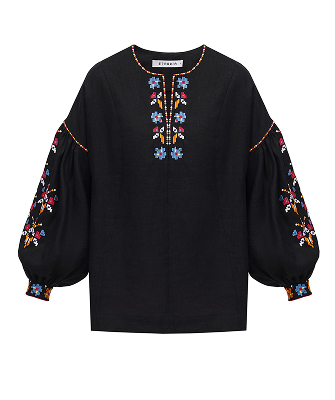
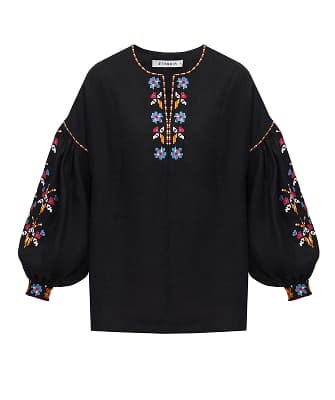
Update styles _collection.scss

diff --git a/css/main.min.css b/css/main.min.css
@@ -1,1 +1,1 @@
-@font-face{font-family:"Manrope";src:url("../../Manrope-SemiBold.woff2") format("woff2");font-weight:600;font-style:normal;font-display:swap}@font-face{font-family:"Manrope";src:url("../../Manrope-Medium.woff2") format("woff2");font-weight:500;font-style:normal;font-display:swap}@font-face{font-family:"Manrope";src:url("../../Manrope-Regular.woff2") format("woff2");font-weight:normal;font-style:normal;font-display:swap}@font-face{font-family:"DM Sans";src:url("../../fonts/DMSans-Regular.woff2") format("woff2");font-weight:normal;font-style:normal;font-display:swap}*,*::before,*::after{margin:0;padding:0;border:0;-webkit-box-sizing:border-box;box-sizing:border-box}a,*::before,*::after{display:inline-block}html,body{min-width:320px;height:100%}body{font-family:"Manrope",sans-serif;font-size:16px;line-height:1.15;color:#fff;background-color:#1c2225}html{scroll-behavior:smooth}a{color:inherit;text-decoration:none}ul,ol,li{list-style:none}button{cursor:pointer;background-color:inherit}img{vertical-align:top}h1,h2,h3,h4,h5,h6{font-weight:inherit;font-size:inherit}button,input{font-weight:inherit;font-size:inherit;color:inherit;font-family:inherit}[class*=__container]{max-width:375px;margin:0 auto;padding:0 20px}@media(min-width: 768px){[class*=__container]{max-width:768px;padding:0 32px}}@media(min-width: 1280px){[class*=__container]{max-width:1280px;padding:0 50px}}@media(min-width: 1440px){[class*=__container]{max-width:1440px;padding:0 100px}}.section-title{font-weight:500;font-size:32px;line-height:1.375;letter-spacing:-0.03em;color:#fcf9f9}@media(min-width: 768px){.section-title{font-size:44px;line-height:1.45}}.header{padding-top:20px}.header__container{display:-webkit-box;display:-ms-flexbox;display:flex;-webkit-box-align:center;-ms-flex-align:center;align-items:center}.nav__list{display:none}@media(min-width: 1280px){.nav__list{display:-webkit-box;display:-ms-flexbox;display:flex;gap:25px;margin-left:60px}}.nav__link{position:relative;font-weight:400;font-size:14px;line-height:1.29;text-transform:uppercase;color:#fcf9f9;-webkit-transition:color .25s linear;transition:color .25s linear}.nav__link:hover,.nav__link:focus{color:#ecd979}.nav__link::after{content:"";position:absolute;left:0;bottom:-10px;display:block;height:2px;width:100%;background-color:#ecd979;border-radius:5px 5px 0px 0px;-webkit-transform:scaleX(0);transform:scaleX(0);-webkit-transition:-webkit-transform 350ms linear;transition:-webkit-transform 350ms linear;transition:transform 350ms linear;transition:transform 350ms linear, -webkit-transform 350ms linear}.nav__link:hover::after,.nav__link:focus::after{-webkit-transform:scaleX(1);transform:scaleX(1);-webkit-transition:-webkit-transform 350ms linear;transition:-webkit-transform 350ms linear;transition:transform 350ms linear;transition:transform 350ms linear, -webkit-transform 350ms linear}.header__address-link{display:none;font-size:14px;font-style:normal;line-height:1.16667;text-transform:uppercase;color:#fcf9f9;border:1px solid rgba(252,249,249,.1);border-radius:15px;padding:14px 28px;width:193px;height:48px;-webkit-transition:all .25s linear;transition:all .25s linear}.header__address-link:hover,.header__address-link:focus{border:1px solid #ecd979;color:#ecd979}@media(min-width: 1280px){.header__address-link{display:block;margin-left:180px}}@media(min-width: 1440px){.header__address-link{margin-left:235px}}.header__social-menu{display:-webkit-box;display:-ms-flexbox;display:flex;gap:12px;margin-left:auto}@media(min-width: 1280px){.header__social-menu{margin-right:0}}.header__social-ist{display:-webkit-box;display:-ms-flexbox;display:flex;-webkit-box-align:center;-ms-flex-align:center;align-items:center;gap:12px}@media(min-width: 1280px){.burger__menu-open{display:none}}.header__social-item{display:-webkit-box;display:-ms-flexbox;display:flex;-webkit-box-align:center;-ms-flex-align:center;align-items:center;-webkit-box-pack:center;-ms-flex-pack:center;justify-content:center;width:44px;height:44px;border:1px solid rgba(252,249,249,.1);border-radius:15px;background:rgba(252,249,249,.1);cursor:pointer;-webkit-transition:border-color .25s linear;transition:border-color .25s linear}.header__social-item:hover{border-color:#ecd979}.mobile-menu{position:fixed;top:0;right:0;z-index:3;padding:20px 20px;width:274px;min-height:812px;background-color:#ecd979;-webkit-transform:translateX(100%);transform:translateX(100%);-webkit-transition:-webkit-transform 400ms linear;transition:-webkit-transform 400ms linear;transition:transform 400ms linear;transition:transform 400ms linear, -webkit-transform 400ms linear;background-image:url("../../images/header/mobile-decor.svg");background-repeat:no-repeat;background-position:bottom;background-size:auto auto}@media(min-width: 768px){.mobile-menu{width:380px;height:1024px;background-image:url("../../images/header/tablet-decor.svg")}}@media(min-width: 1280px){.mobile-menu{display:none}}.mobile-menu.is-open{-webkit-transform:translateX(0);transform:translateX(0)}.mobile-menu__container{display:-webkit-box;display:-ms-flexbox;display:flex;-webkit-box-orient:vertical;-webkit-box-direction:normal;-ms-flex-direction:column;flex-direction:column;-webkit-box-pack:center;-ms-flex-pack:center;justify-content:center;padding:0}.mobile-menu__close{position:absolute;top:22px;right:16px;display:-webkit-box;display:-ms-flexbox;display:flex;-webkit-box-align:center;-ms-flex-align:center;align-items:center;-webkit-box-pack:center;-ms-flex-pack:center;justify-content:center;width:36px;height:36px;padding:0;background-color:rgba(0,0,0,0);outline:none;border:none;cursor:pointer}.mobile-menu .icon-burger-close{color:#1c2225}.mobile-menu .header__address-mobile{display:-webkit-box;display:-ms-flexbox;display:flex;-webkit-box-align:center;-ms-flex-align:center;align-items:center;-webkit-box-pack:center;-ms-flex-pack:center;justify-content:center;border:1px solid rgba(28,34,37,.1);border-radius:15px;width:158px;height:38px;font-style:normal;font-size:12px;line-height:1.17;text-transform:uppercase;color:#1c2225;margin-bottom:186px}@media(min-width: 768px){.mobile-menu .header__address-mobile{line-height:1.43;font-size:14px;width:193px}}.mobile-menu .mobile__list{display:-webkit-box;display:-ms-flexbox;display:flex;-webkit-box-align:end;-ms-flex-align:end;align-items:flex-end;-webkit-box-orient:vertical;-webkit-box-direction:normal;-ms-flex-direction:column;flex-direction:column;gap:20px}@media(min-width: 768px){.mobile-menu .mobile__list{gap:25px}}.mobile-menu .mobile__link{font-size:14px;line-height:1.29;text-transform:uppercase;color:#1c2225}.hero{padding-top:84px;padding-bottom:80px}@media(min-width: 768px){.hero__content{display:-webkit-box;display:-ms-flexbox;display:flex;-ms-flex-wrap:wrap;flex-wrap:wrap}}@media(min-width: 768px){.hero__title-box{max-width:549px}}@media(min-width: 1280px){.hero__title-box{padding-top:94px;margin-left:40px;max-width:505px}}@media(min-width: 1440px){.hero__title-box{padding-top:66px;max-width:600px}}.hero__title{font-weight:400;font-size:44px;line-height:1.09;letter-spacing:-0.03em;color:#fcf9f9;margin-bottom:20px}@media(min-width: 768px){.hero__title{font-size:54px;line-height:1.19;letter-spacing:-0.03em;margin-bottom:40px}}@media(min-width: 1440px){.hero__title{font-size:64px;line-height:1.16}}.hero__title span{color:#ecd979}.hero__link{display:-webkit-box;display:-ms-flexbox;display:flex;-webkit-box-align:baseline;-ms-flex-align:baseline;align-items:baseline;-webkit-box-pack:center;-ms-flex-pack:center;justify-content:center;border:1px solid rgba(252,249,249,.1);border-radius:15px;padding:14px 32px;width:154px;height:49px;font-weight:600;font-size:14px;letter-spacing:-0.04em;text-transform:uppercase;color:#fcf9f9;cursor:pointer;margin-left:70px;margin-bottom:40px;-webkit-transition:border-color .25s linear;transition:border-color .25s linear}.hero__link:hover,.hero__link:focus{border-color:#ecd979}@media(min-width: 768px){.hero__link{font-size:16px;padding:14px 39px;width:168px;height:50px;margin-left:141px;margin-bottom:46px}}@media(min-width: 1280px){.hero__link{margin-bottom:0;margin-left:181px}}@media(min-width: 1440px){.hero__link{margin-left:141px}}.hero__arrow{margin-left:10px}.hero__star-box{display:none}@media(min-width: 768px){.hero__star-box{display:-webkit-box;display:-ms-flexbox;display:flex;-webkit-box-orient:vertical;-webkit-box-direction:normal;-ms-flex-direction:column;flex-direction:column;gap:16px;max-width:116px;max-height:121px}}@media(min-width: 1280px){.hero__star-box{margin-top:14px;margin-left:124px}}@media(min-width: 1440px){.hero__star-box{margin-top:66px;margin-left:86px}}.hero__star-img{width:52px;margin:0 auto;-webkit-animation:rotate 10s infinite;animation:rotate 10s infinite;-webkit-transform-origin:center;transform-origin:center}@-webkit-keyframes rotate{0%{-webkit-transform:rotate(0deg);transform:rotate(0deg)}50%{-webkit-transform:rotate(-180deg);transform:rotate(-180deg)}100%{-webkit-transform:rotate(0deg);transform:rotate(0deg)}}@keyframes rotate{0%{-webkit-transform:rotate(0deg);transform:rotate(0deg)}50%{-webkit-transform:rotate(-180deg);transform:rotate(-180deg)}100%{-webkit-transform:rotate(0deg);transform:rotate(0deg)}}.hero__star-text{font-size:16px;letter-spacing:-0.04em;text-align:center;color:rgba(252,249,249,.4)}.hero-swiper{max-width:392px;margin:0;border-radius:4px;overflow:hidden}@media(min-width: 1280px){.hero-swiper{-webkit-box-ordinal-group:0;-ms-flex-order:-1;order:-1}}.hero__img{max-width:100%;border-radius:4px}.about{padding-bottom:80px;background-image:url("../../images/about/about-decor.svg");background-size:459px 408px;background-repeat:no-repeat;background-position:left 100px bottom 20px}@media(min-width: 768px){.about{padding-bottom:100px;background-size:545px 484px;background-position:left 400px bottom 20px}}@media(min-width: 1280px){.about{padding-bottom:150px;background-position:right -150px bottom 70px}}@media(min-width: 1440px){.about{padding-bottom:150px;background-position:right bottom 70px}}@media(min-width: 1280px){.about__content{display:-webkit-box;display:-ms-flexbox;display:flex;-webkit-box-align:center;-ms-flex-align:center;align-items:center;-webkit-box-pack:center;-ms-flex-pack:center;justify-content:center;gap:50px}}.about-title{margin-bottom:40px}.about__text{font-size:14px;color:rgba(252,249,249,.4);margin-bottom:50px}@media(min-width: 768px){.about__text{font-size:16px;margin-bottom:40px}}@media(min-width: 1280px){.about__text{margin-bottom:0}}.about__image-container{max-width:280px}@media(min-width: 375px){.about__image-container{max-width:335px}}@media(min-width: 768px){.about__image-container{max-width:704px}}@media(min-width: 1280px){.about__image-container{max-width:594px}}@media(min-width: 1440px){.about__image-container{max-width:709px}}.about__img{border-radius:4px;max-width:100%}.collection{padding-bottom:80px}/*# sourceMappingURL=main.min.css.map */
+@font-face{font-family:"Manrope";src:url("../../Manrope-SemiBold.woff2") format("woff2");font-weight:600;font-style:normal;font-display:swap}@font-face{font-family:"Manrope";src:url("../../Manrope-Medium.woff2") format("woff2");font-weight:500;font-style:normal;font-display:swap}@font-face{font-family:"Manrope";src:url("../../Manrope-Regular.woff2") format("woff2");font-weight:normal;font-style:normal;font-display:swap}@font-face{font-family:"DM Sans";src:url("../../fonts/DMSans-Regular.woff2") format("woff2");font-weight:normal;font-style:normal;font-display:swap}*,*::before,*::after{margin:0;padding:0;border:0;-webkit-box-sizing:border-box;box-sizing:border-box}a,*::before,*::after{display:inline-block}html,body{min-width:320px;height:100%}body{font-family:"Manrope",sans-serif;font-size:16px;line-height:1.15;color:#fff;background-color:#1c2225}html{scroll-behavior:smooth}a{color:inherit;text-decoration:none}ul,ol,li{list-style:none}button{cursor:pointer;background-color:inherit}img{vertical-align:top}h1,h2,h3,h4,h5,h6{font-weight:inherit;font-size:inherit}button,input{font-weight:inherit;font-size:inherit;color:inherit;font-family:inherit}[class*=__container]{max-width:375px;margin:0 auto;padding:0 20px}@media(min-width: 768px){[class*=__container]{max-width:768px;padding:0 32px}}@media(min-width: 1280px){[class*=__container]{max-width:1280px;padding:0 50px}}@media(min-width: 1440px){[class*=__container]{max-width:1440px;padding:0 100px}}.section-title{font-weight:500;font-size:32px;line-height:1.375;letter-spacing:-0.03em;color:#fcf9f9}@media(min-width: 768px){.section-title{font-size:44px;line-height:1.45}}.header{padding-top:20px}.header__container{display:-webkit-box;display:-ms-flexbox;display:flex;-webkit-box-align:center;-ms-flex-align:center;align-items:center}.nav__list{display:none}@media(min-width: 1280px){.nav__list{display:-webkit-box;display:-ms-flexbox;display:flex;gap:25px;margin-left:60px}}.nav__link{position:relative;font-weight:400;font-size:14px;line-height:1.29;text-transform:uppercase;color:#fcf9f9;-webkit-transition:color .25s linear;transition:color .25s linear}.nav__link:hover,.nav__link:focus{color:#ecd979}.nav__link::after{content:"";position:absolute;left:0;bottom:-10px;display:block;height:2px;width:100%;background-color:#ecd979;border-radius:5px 5px 0px 0px;-webkit-transform:scaleX(0);transform:scaleX(0);-webkit-transition:-webkit-transform 350ms linear;transition:-webkit-transform 350ms linear;transition:transform 350ms linear;transition:transform 350ms linear, -webkit-transform 350ms linear}.nav__link:hover::after,.nav__link:focus::after{-webkit-transform:scaleX(1);transform:scaleX(1);-webkit-transition:-webkit-transform 350ms linear;transition:-webkit-transform 350ms linear;transition:transform 350ms linear;transition:transform 350ms linear, -webkit-transform 350ms linear}.header__address-link{display:none;font-size:14px;font-style:normal;line-height:1.16667;text-transform:uppercase;color:#fcf9f9;border:1px solid rgba(252,249,249,.1);border-radius:15px;padding:14px 28px;width:193px;height:48px;-webkit-transition:all .25s linear;transition:all .25s linear}.header__address-link:hover,.header__address-link:focus{border:1px solid #ecd979;color:#ecd979}@media(min-width: 1280px){.header__address-link{display:block;margin-left:180px}}@media(min-width: 1440px){.header__address-link{margin-left:235px}}.header__social-menu{display:-webkit-box;display:-ms-flexbox;display:flex;gap:12px;margin-left:auto}@media(min-width: 1280px){.header__social-menu{margin-right:0}}.header__social-ist{display:-webkit-box;display:-ms-flexbox;display:flex;-webkit-box-align:center;-ms-flex-align:center;align-items:center;gap:12px}@media(min-width: 1280px){.burger__menu-open{display:none}}.header__social-item{display:-webkit-box;display:-ms-flexbox;display:flex;-webkit-box-align:center;-ms-flex-align:center;align-items:center;-webkit-box-pack:center;-ms-flex-pack:center;justify-content:center;width:44px;height:44px;border:1px solid rgba(252,249,249,.1);border-radius:15px;background:rgba(252,249,249,.1);cursor:pointer;-webkit-transition:border-color .25s linear;transition:border-color .25s linear}.header__social-item:hover{border-color:#ecd979}.mobile-menu{position:fixed;top:0;right:0;z-index:3;padding:20px 20px;width:274px;min-height:812px;background-color:#ecd979;-webkit-transform:translateX(100%);transform:translateX(100%);-webkit-transition:-webkit-transform 400ms linear;transition:-webkit-transform 400ms linear;transition:transform 400ms linear;transition:transform 400ms linear, -webkit-transform 400ms linear;background-image:url("../../images/header/mobile-decor.svg");background-repeat:no-repeat;background-position:bottom;background-size:auto auto}@media(min-width: 768px){.mobile-menu{width:380px;height:1024px;background-image:url("../../images/header/tablet-decor.svg")}}@media(min-width: 1280px){.mobile-menu{display:none}}.mobile-menu.is-open{-webkit-transform:translateX(0);transform:translateX(0)}.mobile-menu__container{display:-webkit-box;display:-ms-flexbox;display:flex;-webkit-box-orient:vertical;-webkit-box-direction:normal;-ms-flex-direction:column;flex-direction:column;-webkit-box-pack:center;-ms-flex-pack:center;justify-content:center;padding:0}.mobile-menu__close{position:absolute;top:22px;right:16px;display:-webkit-box;display:-ms-flexbox;display:flex;-webkit-box-align:center;-ms-flex-align:center;align-items:center;-webkit-box-pack:center;-ms-flex-pack:center;justify-content:center;width:36px;height:36px;padding:0;background-color:rgba(0,0,0,0);outline:none;border:none;cursor:pointer}.mobile-menu .icon-burger-close{color:#1c2225}.mobile-menu .header__address-mobile{display:-webkit-box;display:-ms-flexbox;display:flex;-webkit-box-align:center;-ms-flex-align:center;align-items:center;-webkit-box-pack:center;-ms-flex-pack:center;justify-content:center;border:1px solid rgba(28,34,37,.1);border-radius:15px;width:158px;height:38px;font-style:normal;font-size:12px;line-height:1.17;text-transform:uppercase;color:#1c2225;margin-bottom:186px}@media(min-width: 768px){.mobile-menu .header__address-mobile{line-height:1.43;font-size:14px;width:193px}}.mobile-menu .mobile__list{display:-webkit-box;display:-ms-flexbox;display:flex;-webkit-box-align:end;-ms-flex-align:end;align-items:flex-end;-webkit-box-orient:vertical;-webkit-box-direction:normal;-ms-flex-direction:column;flex-direction:column;gap:20px}@media(min-width: 768px){.mobile-menu .mobile__list{gap:25px}}.mobile-menu .mobile__link{font-size:14px;line-height:1.29;text-transform:uppercase;color:#1c2225}.hero{padding-top:84px;padding-bottom:80px}@media(min-width: 768px){.hero__content{display:-webkit-box;display:-ms-flexbox;display:flex;-ms-flex-wrap:wrap;flex-wrap:wrap}}@media(min-width: 768px){.hero__title-box{max-width:549px}}@media(min-width: 1280px){.hero__title-box{padding-top:94px;margin-left:40px;max-width:505px}}@media(min-width: 1440px){.hero__title-box{padding-top:66px;max-width:600px}}.hero__title{font-weight:400;font-size:44px;line-height:1.09;letter-spacing:-0.03em;color:#fcf9f9;margin-bottom:20px}@media(min-width: 768px){.hero__title{font-size:54px;line-height:1.19;letter-spacing:-0.03em;margin-bottom:40px}}@media(min-width: 1440px){.hero__title{font-size:64px;line-height:1.16}}.hero__title span{color:#ecd979}.hero__link{display:-webkit-box;display:-ms-flexbox;display:flex;-webkit-box-align:baseline;-ms-flex-align:baseline;align-items:baseline;-webkit-box-pack:center;-ms-flex-pack:center;justify-content:center;border:1px solid rgba(252,249,249,.1);border-radius:15px;padding:14px 32px;width:154px;height:49px;font-weight:600;font-size:14px;letter-spacing:-0.04em;text-transform:uppercase;color:#fcf9f9;cursor:pointer;margin-left:70px;margin-bottom:40px;-webkit-transition:border-color .25s linear;transition:border-color .25s linear}.hero__link:hover,.hero__link:focus{border-color:#ecd979}@media(min-width: 768px){.hero__link{font-size:16px;padding:14px 39px;width:168px;height:50px;margin-left:141px;margin-bottom:46px}}@media(min-width: 1280px){.hero__link{margin-bottom:0;margin-left:181px}}@media(min-width: 1440px){.hero__link{margin-left:141px}}.hero__arrow{margin-left:10px}.hero__star-box{display:none}@media(min-width: 768px){.hero__star-box{display:-webkit-box;display:-ms-flexbox;display:flex;-webkit-box-orient:vertical;-webkit-box-direction:normal;-ms-flex-direction:column;flex-direction:column;gap:16px;max-width:116px;max-height:121px}}@media(min-width: 1280px){.hero__star-box{margin-top:14px;margin-left:124px}}@media(min-width: 1440px){.hero__star-box{margin-top:66px;margin-left:86px}}.hero__star-img{width:52px;margin:0 auto;-webkit-animation:rotate 10s infinite;animation:rotate 10s infinite;-webkit-transform-origin:center;transform-origin:center}@-webkit-keyframes rotate{0%{-webkit-transform:rotate(0deg);transform:rotate(0deg)}50%{-webkit-transform:rotate(-180deg);transform:rotate(-180deg)}100%{-webkit-transform:rotate(0deg);transform:rotate(0deg)}}@keyframes rotate{0%{-webkit-transform:rotate(0deg);transform:rotate(0deg)}50%{-webkit-transform:rotate(-180deg);transform:rotate(-180deg)}100%{-webkit-transform:rotate(0deg);transform:rotate(0deg)}}.hero__star-text{font-size:16px;letter-spacing:-0.04em;text-align:center;color:rgba(252,249,249,.4)}.hero-swiper{max-width:392px;margin:0;border-radius:4px;overflow:hidden}@media(min-width: 1280px){.hero-swiper{-webkit-box-ordinal-group:0;-ms-flex-order:-1;order:-1}}.hero__img{max-width:100%;border-radius:4px}.about{padding-bottom:80px;background-image:url("../../images/about/about-decor.svg");background-size:459px 408px;background-repeat:no-repeat;background-position:left 100px bottom 20px}@media(min-width: 768px){.about{padding-bottom:100px;background-size:545px 484px;background-position:left 400px bottom 20px}}@media(min-width: 1280px){.about{padding-bottom:150px;background-position:right -150px bottom 70px}}@media(min-width: 1440px){.about{padding-bottom:150px;background-position:right bottom 70px}}@media(min-width: 1280px){.about__content{display:-webkit-box;display:-ms-flexbox;display:flex;-webkit-box-align:center;-ms-flex-align:center;align-items:center;-webkit-box-pack:center;-ms-flex-pack:center;justify-content:center;gap:50px}}.about-title{margin-bottom:40px}.about__text{font-size:14px;color:rgba(252,249,249,.4);margin-bottom:50px}@media(min-width: 768px){.about__text{font-size:16px;margin-bottom:40px}}@media(min-width: 1280px){.about__text{margin-bottom:0}}.about__image-container{max-width:280px}@media(min-width: 375px){.about__image-container{max-width:335px}}@media(min-width: 768px){.about__image-container{max-width:704px}}@media(min-width: 1280px){.about__image-container{max-width:594px}}@media(min-width: 1440px){.about__image-container{max-width:709px}}.about__img{border-radius:4px;max-width:100%}.collection{padding-bottom:80px}.collection__img-container{margin-bottom:18px}.collection__img{max-width:100%}.collection__card-name{font-weight:500;font-size:14px;line-height:1;letter-spacing:.05em;text-transform:uppercase;color:#fcf9f9;margin-bottom:8px}.collection__card-price{font-weight:400;font-size:14px;line-height:1;letter-spacing:.05em;color:rgba(252,249,249,.4)}/*# sourceMappingURL=main.min.css.map */

diff --git a/index.html b/index.html
@@ -254,9 +254,28 @@
             <div class="swiper-wrapper">
               <!--Card #1-->
               <div class="swiper-slide collection__swiper-slide">
-                <img class="collection__img" 
-                src="" 
-                alt="">
+                <div class="collection__img-container">
+                  <img
+                    class="collection__img"
+                    srcset="
+                      ./images/collection/1/1-mobile-335.webp  335w,
+                      ./images/collection/1/1-mobile-670.webp  670w,
+                      ./images/collection/1/1-tablet-342.webp  342w,
+                      ./images/collection/1/1-tablet-684.webp  684w,
+                      ./images/collection/1/1-desktop-380.webp 380w,
+                      ./images/collection/1/1-desktop-760.webp 760w,
+                      ./images/collection/1/1-desktop-400.webp 400w,
+                      ./images/collection/1/1-desktop-800.webp 800w
+                    "
+                    sizes="(min-width: 1440px) 400px, (min-width: 1280px) 380px, (min-width: 768px) 342px, (min-width: 320px) 335px"
+                    alt="Ukrainian embroidered shirt"
+                    src="./images/collection/1/1-mobile-335.jpg"
+                  />
+                </div>
+                <h3 class="collection__card-name">
+                  AUGUST Poltava women's blouseRING
+                </h3>
+                <p class="collection__card-price">3300 UAH</p>
               </div>
             </div>
           </div>

diff --git a/css/main.css b/css/main.css
@@ -713,4 +713,30 @@ input {
 
 .collection {
   padding-bottom: 80px;
+}
+
+.collection__img-container {
+  margin-bottom: 18px;
+}
+
+.collection__img {
+  max-width: 100%;
+}
+
+.collection__card-name {
+  font-weight: 500;
+  font-size: 14px;
+  line-height: 1;
+  letter-spacing: 0.05em;
+  text-transform: uppercase;
+  color: #fcf9f9;
+  margin-bottom: 8px;
+}
+
+.collection__card-price {
+  font-weight: 400;
+  font-size: 14px;
+  line-height: 1;
+  letter-spacing: 0.05em;
+  color: rgba(252, 249, 249, 0.4);
 }/*# sourceMappingURL=main.css.map */

diff --git a/sass/layout/_collection.scss b/sass/layout/_collection.scss
@@ -1,3 +1,29 @@
 .collection {
   padding-bottom: 80px;
 }
+
+.collection__img-container {
+  margin-bottom: 18px;
+}
+
+.collection__img {
+  max-width: 100%;
+}
+
+.collection__card-name {
+  font-weight: 500;
+  font-size: 14px;
+  line-height: 1;
+  letter-spacing: 0.05em;
+  text-transform: uppercase;
+  color: $colorWhite;
+  margin-bottom: 8px;
+}
+
+.collection__card-price {
+  font-weight: 400;
+  font-size: 14px;
+  line-height: 1;
+  letter-spacing: 0.05em;
+  color: rgba(252, 249, 249, 0.4);
+}
